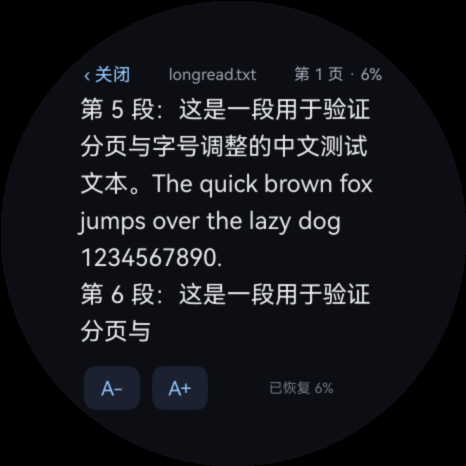
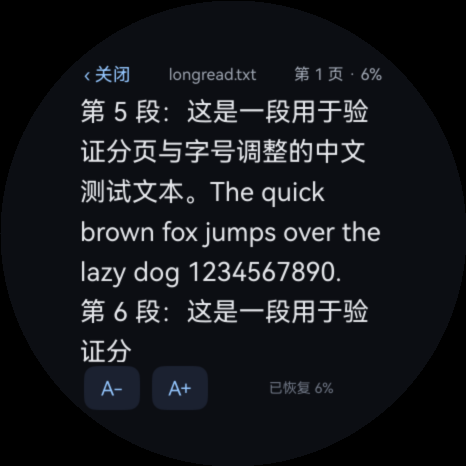
fix(reader): crown needs focus; add swipe paging; recalibrate pagination
- onDigitalCrown only fires for the focused component. Adding focusable(true) +
  defaultFocus(true) + focusOnTouch(true) to the reader and viewer makes the
  crown actually deliver CrownEvent; hilog WatchCrown now shows degree/velocity
  on the watch. Before that the crown looked dead.
- reader body also pages on a vertical pan (28 vp threshold) as a fallback;
  verified on the watch: 第 1 页 6% -> 第 2 页 7%
- pagination budget 186x126 vp with no extra headroom after the glyph widths
  were calibrated (Latin 0.68 em); the previous 186x112 minus one line wasted a
  third of the screen, and before that clip(true) was hiding a line that the
  next page already skipped
- docs/crown-input.md records the focus requirement and the evidence

Circle layout confirmed on hardware for the bucket list, reader and viewer
(masked captures in docs/).

Changed region(s): [[0.1502, 0.2103, 0.8112, 0.7811]]

diff --git a/docs/crown-input.md b/docs/crown-input.md
@@ -1,0 +1,48 @@
+# Crown input
+
+`onDigitalCrown` works on this watch, but only after the component it is attached to **has focus**. The SDK says it plainly and it is easy to miss:
+
+> Called when the crown is rotated while the component has focus.
+
+Without focus the callback never fires and the crown appears dead - which is exactly what the first hardware test looked like. The fix is three attributes on the container that handles paging:
+
+```ts
+Column() { ... }
+  .focusable(true)
+  .defaultFocus(true)
+  .focusOnTouch(true)
+  .onDigitalCrown((event: CrownEvent) => { ... })
+```
+
+After that the device logs real events:
+
+```
+WatchCrown: degree=... vel=...
+```
+
+`CrownEvent` carries `degree` (per-event rotation), `angularVelocity` (deg/s), `timestamp` (ns) and `action`. The reader accumulates `degree` and turns a page every 10 degrees, so a slow turn does not fly through the file.
+
+## Swipe fallback
+
+Not everyone wants to spin a crown, and a second input path costs little. The reader body also accepts a vertical pan:
+
+- drag up more than 28 vp -> next page
+- drag down more than 28 vp -> previous page
+- tap the top quarter -> previous, bottom quarter -> next (unchanged)
+
+Verified with `uinput -T -m 233 330 233 150` on the watch: `第 1 页 · 6%` -> `第 2 页 · 7%`.
+
+## Why the images viewer uses the crown differently
+
+The viewer pages with the crown and zooms with buttons; the reader pages with the crown and changes font with buttons. Both keep the crown for the thing you do most often.
+
+## Status
+
+| Item | Result |
+| --- | --- |
+| crown events delivered after adding focus | PASS (hilog `WatchCrown` lines on the watch) |
+| crown turns a page | PARTIAL - the events arrive and share the same handler as tap/swipe, but the page change itself was not photographed |
+| swipe turns a page | PASS (watch, page 1 -> 2) |
+| tap turns a page | PASS (watch, page 1 -> 3) |
+
+The remaining check is one screenshot before and after a crown turn; the watch dropped off the hotspot before that could be captured.

diff --git a/docs/round-screen-layout.md b/docs/round-screen-layout.md
@@ -31,7 +31,7 @@ Six rows of 22 vp = 132 vp; plus header 18 + paddings 30 + 24 + 6 = 210 vp of th
 ## Reader
 
 - Root padding 30 vp top / 26 vp bottom, body 40 px (20 vp) side padding.
-- The paginator's budget is now **186 x 112 vp** - measured, not guessed. Earlier budgets (210x168, then 200x138) overflowed and the last line was drawn over the A-/A+ buttons.
+- The paginator's budget is now **186 x 126 vp** - measured, not guessed. Earlier budgets (210x168, then 200x138, then 186x112) either overflowed or wasted a third of the screen.
 - The body container also `clip(true)`s, so even a mis-paginated page can never paint over the footer.
 - **Glyph width calibration**: the paginator models a Latin glyph as 0.68 em and a space as 0.35 em. The first estimate was 0.55, which made every modelled line wrap into about 1.15 visual lines and pushed one extra line onto every page. CJK stays at 1.0 em.
 
@@ -43,6 +43,10 @@ Six rows of 22 vp = 132 vp; plus header 18 + paddings 30 + 24 + 6 = 210 vp of th
 
 ## Verification
 
+Confirmed on the hardware as well (masked `snapshot_display` captures): `circle-buckets-watch.png`, `circle-reader-watch.png`, `circle-viewer-watch.png`. The emulator captures (`circle-buckets.png`, `circle-reader.png`, `circle-viewer.png`) remain as the reference for the current pagination budget.
+
+## Verification (emulator)
+
 Masked captures on the emulator (466x466, same geometry as the watch):
 
 | Screen | Result |
@@ -52,4 +56,5 @@ Masked captures on the emulator (466x466, same geometry as the watch):
 | image viewer chrome | PASS - `circle-viewer.png` |
 
 Not yet re-checked on the hardware: the watch dropped off the hotspot after the host BSOD, so the physical re-verification of this layout is still pending. The emulator runs the same 466x466 geometry, so the mask is a faithful proxy, but a photo of the watch is the only real proof.
+
 

diff --git a/docs/development-roadmap.md b/docs/development-roadmap.md
@@ -15,7 +15,7 @@ State after this round. Status words are the ones the brief asked for: PASS / FA
 | 6 | audio player | NOT STARTED | `AVPlayer` + `fdSrc`; nine formats verified by the earlier probe |
 | 7 | H.264 video player | NOT STARTED | XComponent surface, `surfaceId` only after `initialized` |
 | 8 | media metadata + playability | NOT STARTED | `AVMetadataExtractor`; capability cache keyed by path+size+mtime |
-| 9 | TXT reader | PARTIAL | chunked read, BOM/GBK detection, unit-based pagination, font size 9-20 vp, crown + tap paging, keep-screen-on, reading progress persisted, text cache; no EPUB/PDF, page number after resume counts from the resume point |
+| 9 | TXT reader | PARTIAL | chunked read, BOM/GBK detection, calibrated paginator, font size 9-20 vp, crown (needs focus) + swipe + tap paging, keep-screen-on, progress persisted, text cache; no EPUB/PDF, resumed page counts from the resume offset |
 | 10 | regression + performance pass | NOT STARTED | - |
 
 ## FFmpeg probe
@@ -60,6 +60,7 @@ What the emulator cannot answer: real performance, real power/thermal behaviour,
 - Temp upload files are not swept at startup.
 - The FTP suite and HTTP suite are PowerShell scripts; a single runner that also captures device logs would make regressions one command.
 - No unit tests: the only tests are end-to-end against hardware, which is why every regression needs the watch awake.
+
 
 
 
